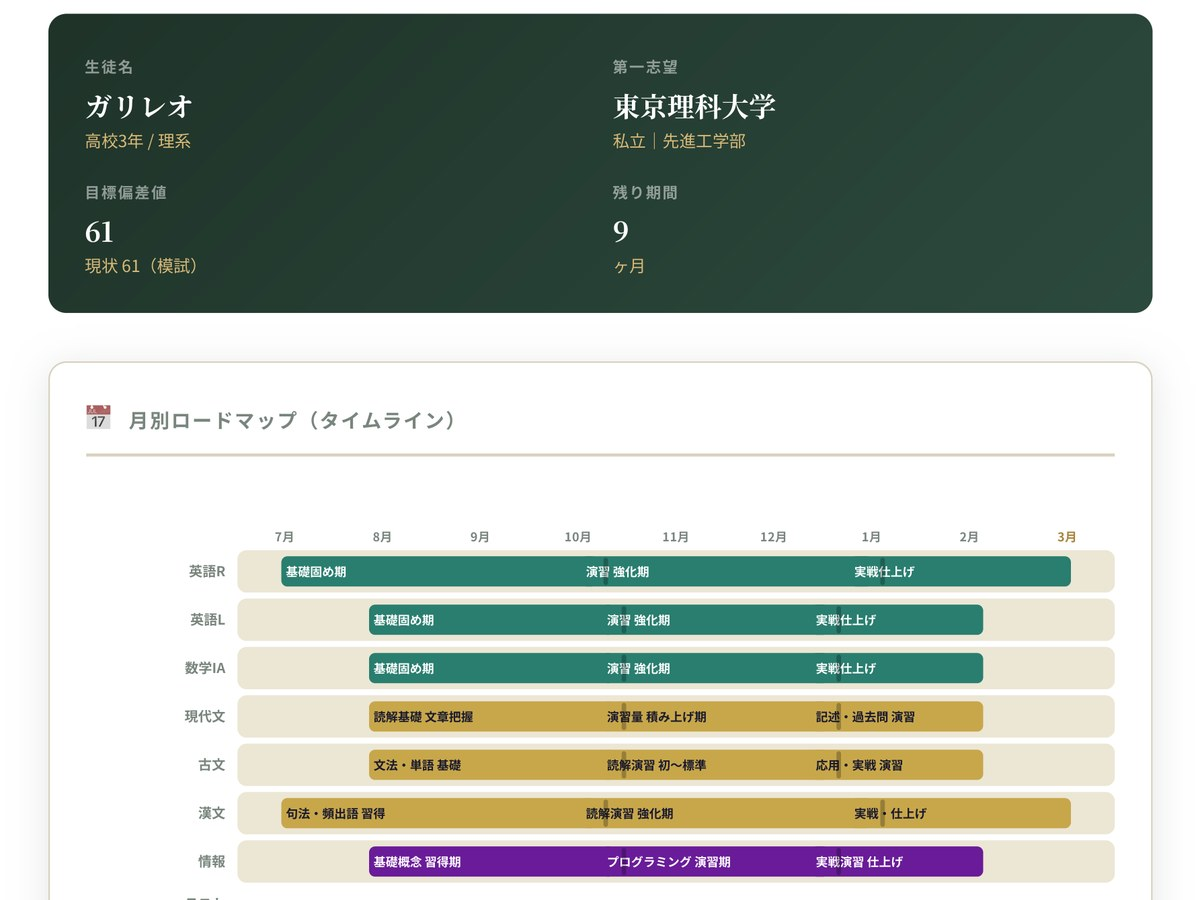
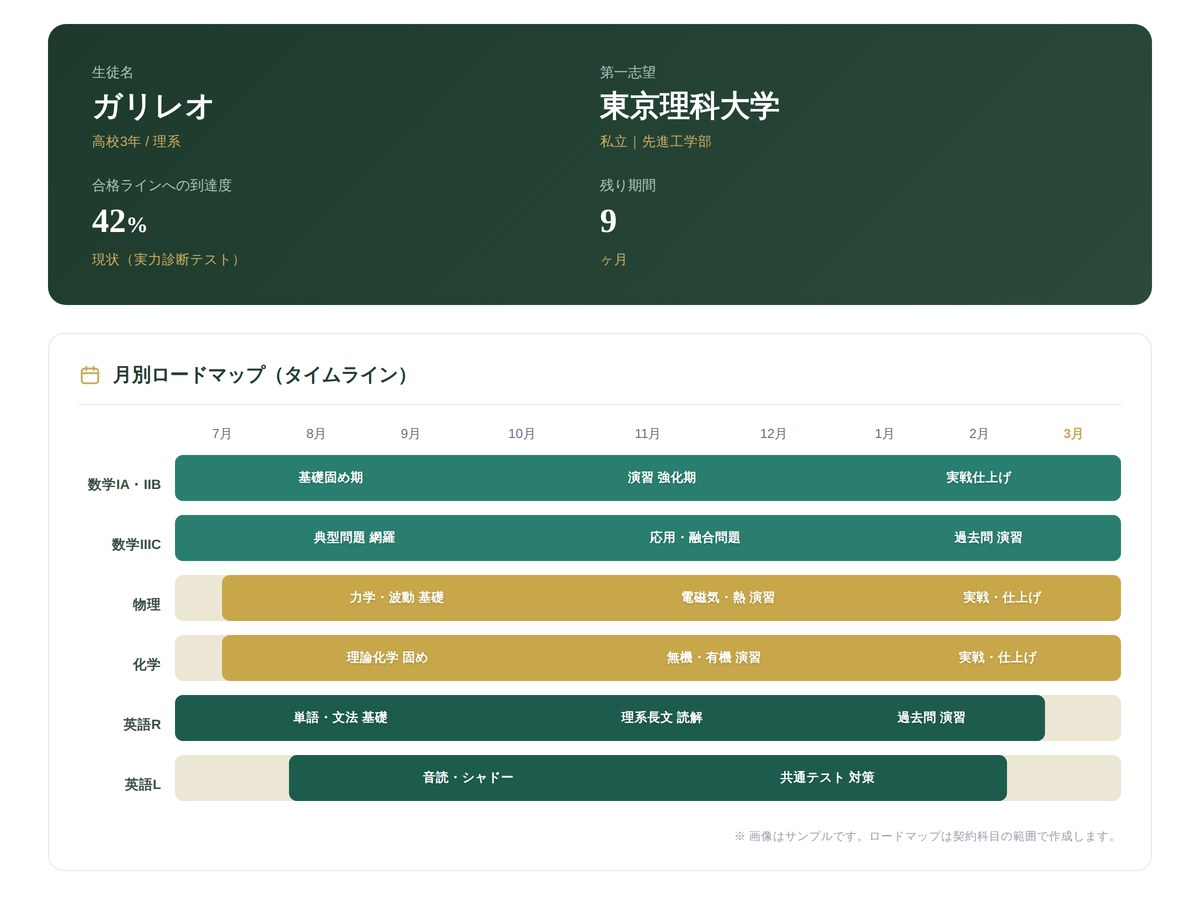
2026年改訂版の内容をサイト全体に反映
index.html
- ギャラリー「偏差値推移」を「合格ラインへの到達度」に差し替え（画像も作り直し）
- 合格ロードマップのサンプル画像を理系科目・到達度ベースに作り直し
- 学習ポイント・フィードバックのサンプル画像を理系科目版に作り直し
- 入塾の流れ STEP3/STEP4 を改訂版の運用に合わせて更新（確認テストの記述を削除）
- 毎日課題の丸付けに「考え方のコメントを添えて返却」を追記
- FAQ を更新・追加（保護者報告は2ヶ月に1回／科目数と追加オプション／
  実力診断テストは到達度で提示／毎日課題の丸付け方法）

pages/mainichi-kadai.html
- フィードバックの説明に「考え方のコメントを添えて返却」を追記

pages/lp-hybrid.html
- 旧料金の取り消し線表記「通常 ¥45,000 / 月」を削除
- 毎日課題の説明を偏差値から合格ラインへの到達度に変更

CLAUDE.md
- 2026年改訂版のサービス仕様・用語ルールを追記し、旧料金の記述を削除

Claude-Session: https://claude.ai/code/session_01FNeT1EFJMKpWd39kFEhtrb

diff --git a/index.html b/index.html
@@ -1261,7 +1261,7 @@ a.news-item{text-decoration:none;color:inherit;cursor:pointer}
     <div class="daily-steps">
       <div class="daily-step"><div class="daily-step-num">①</div><h4>講師が課題を提示</h4><p>生徒一人ひとりの学習状況や志望校に合わせて、<strong>どの参考書を・どの範囲まで・どのように</strong>進めるかを具体的に指示します。</p></div>
       <div class="daily-step"><div class="daily-step-num">②</div><h4>自宅で学習・ノート提出</h4><p>生徒は課題に取り組み、学習内容をノートにまとめます。ノートを写真で提出することで、単に「やりました」ではなく実際の学習内容を確認できます。</p></div>
-      <div class="daily-step"><div class="daily-step-num">③</div><h4>講師が丸付け・確認</h4><p>提出されたノートを講師が確認・丸付けします。理解が不十分な部分があれば、解き方のアドバイスや学習方法についてフィードバックを行います。</p></div>
+      <div class="daily-step"><div class="daily-step-num">③</div><h4>講師が丸付け・確認</h4><p>提出されたノートを講師が確認・丸付けします。不正解の箇所には「なぜそうなるのか」という<strong>考え方のコメント</strong>を添えて返却し、解き方や学習方法についてフィードバックを行います。</p></div>
       <div class="daily-step"><div class="daily-step-num">④</div><h4>翌日の課題を提示</h4><p>その日の学習状況を踏まえながら、講師が翌日の課題を提示します。このサイクルを毎日繰り返すことで、学習を着実に積み重ねていきます。</p></div>
     </div>
     <div class="daily-merits">
@@ -1348,7 +1348,7 @@ a.news-item{text-decoration:none;color:inherit;cursor:pointer}
     <div class="gallery-grid">
       <div class="gallery-item"><img src="img/gallery-3-dialogue.jpg" alt="講師との対話型授業" loading="lazy" width="1200" height="900"><span class="gallery-cap">講師との対話型授業</span></div>
       <div class="gallery-item"><img src="img/gallery-1-roadmap.jpg" alt="一人ひとりの合格ロードマップ" loading="lazy" width="1200" height="900"><span class="gallery-cap">合格ロードマップ</span></div>
-      <div class="gallery-item"><img src="img/gallery-2-suii.jpg" alt="偏差値推移のイメージ" loading="lazy" width="1200" height="900"><span class="gallery-cap">偏差値推移</span></div>
+      <div class="gallery-item"><img src="img/gallery-2-suii.jpg" alt="合格ラインへの到達度のイメージ" loading="lazy" width="1200" height="900"><span class="gallery-cap">合格ラインへの到達度</span></div>
       <div class="gallery-item"><img src="img/gallery-4-feedback.jpg" alt="学習ポイントのフィードバック" loading="lazy" width="1200" height="900"><span class="gallery-cap">学習ポイントのフィードバック</span></div>
       <div class="gallery-item"><img src="img/gallery-5-kadai.jpg" alt="毎日課題の配信" loading="lazy" width="1200" height="900"><span class="gallery-cap">毎日課題の配信</span></div>
       <div class="gallery-item"><img src="img/gallery-6-voices.jpg" alt="2025年度 合格者 保護者様の声（手書きアンケート）" loading="lazy" width="1200" height="900"></div>
@@ -1513,8 +1513,8 @@ a.news-item{text-decoration:none;color:inherit;cursor:pointer}
     <div class="flow-steps">
       <div class="flow-step"><div class="flow-num">STEP1</div><div class="flow-content"><h3>お問い合わせ・学習相談会</h3><p>フォームまたはLINEからお気軽にご連絡ください。現在の学力・志望校・学習の悩みなどをお伺いし、最適な学習プランをご提案します。</p></div></div>
       <div class="flow-step"><div class="flow-num">STEP2</div><div class="flow-content"><h3>無料体験授業（60分）</h3><p>実際の授業をご体験いただけます。数学・物理・化学・生物・英語からお好きな科目を選択可能です。実際の授業の進め方や講師との相性を、ぜひご確認ください。</p></div></div>
-      <div class="flow-step"><div class="flow-num">STEP3</div><div class="flow-content"><h3>学習プラン設計</h3><p>体験授業の結果をもとに、生徒一人ひとりに合わせた毎日課題ロードマップを作成。目標達成までの具体的なスケジュールをご提示します。</p></div></div>
-      <div class="flow-step"><div class="flow-num">STEP4</div><div class="flow-content"><h3>入塾・学習スタート</h3><p>入塾後は担当講師がマンツーマンでサポート。毎日課題と定期的な確認テストで、着実に学力を伸ばしていきます。</p></div></div>
+      <div class="flow-step"><div class="flow-num">STEP3</div><div class="flow-content"><h3>入塾面談・学習プラン設計</h3><p>体験授業の結果をもとに、担当科目を確定し、生徒一人ひとりに合わせた毎日課題ロードマップを作成。目標達成までの具体的なスケジュールをご提示します。</p></div></div>
+      <div class="flow-step"><div class="flow-num">STEP4</div><div class="flow-content"><h3>入塾・学習スタート</h3><p>入塾後は担当講師がマンツーマンでサポート。毎日課題と学習カルテによる進捗管理で、着実に学力を伸ばしていきます。</p></div></div>
     </div>
   </div>
 </section>
@@ -1533,7 +1533,10 @@ a.news-item{text-decoration:none;color:inherit;cursor:pointer}
       <div class="faq-item"><div class="faq-q" onclick="toggleFaq(this)">数学III・Cの指導に対応していますか？<span class="faq-icon">+</span></div><div class="faq-a"><p>はい、数学IIIC まで対応しています。東大・京大・東工大レベルの対策も可能です。</p></div></div>
       <div class="faq-item"><div class="faq-q" onclick="toggleFaq(this)">医学部受験に対応できますか？<span class="faq-icon">+</span></div><div class="faq-a"><p>はい、医学部受験に必要な全科目の対策が可能です。面接対策の相談も承ります。</p></div></div>
       <div class="faq-item"><div class="faq-q" onclick="toggleFaq(this)">毎日課題はどのくらいの量ですか？<span class="faq-icon">+</span></div><div class="faq-a"><p>生徒の学力や生活リズムに合わせて量を調整します。無理なく継続できることを重視しており、1日あたり1〜2時間程度を目安に設計しています。部活動との両立も可能です。</p></div></div>
-      <div class="faq-item"><div class="faq-q" onclick="toggleFaq(this)">保護者様へのご報告はありますか？<span class="faq-icon">+</span></div><div class="faq-a"><p>はい、定期的に保護者様との面談を実施し、学習の進捗状況や今後の方針を共有しています。また、日々の学習状況もLINEなどで随時ご報告可能です。</p></div></div>
+      <div class="faq-item"><div class="faq-q" onclick="toggleFaq(this)">保護者様へのご報告はありますか？<span class="faq-icon">+</span></div><div class="faq-a"><p>はい、2ヶ月に1回、保護者様と塾長の面談を実施しています。教務長・担任講師から普段のご様子を事前に共有した上で、塾長より学習の進捗状況と今後の方針をご報告します。日々の学習状況についても、LINEなどで随時ご報告可能です。</p></div></div>
+      <div class="faq-item"><div class="faq-q" onclick="toggleFaq(this)">何科目まで受講できますか？<span class="faq-icon">+</span></div><div class="faq-a"><p>コースごとに標準の科目数が決まっており、大学受験準備コース・合格戦略サポートは2科目まで、合格戦略プログラムは4科目までが標準です。いずれも科目追加オプションで最大2科目まで追加いただけます。担当科目は入塾面談時に確定し、合格ロードマップも契約科目の範囲で作成します。なお、科目の追加・変更・解除は翌月からの適用となり、月途中の変更はできません。</p></div></div>
+      <div class="faq-item"><div class="faq-q" onclick="toggleFaq(this)">実力診断テストの結果はどのように示されますか？<span class="faq-icon">+</span></div><div class="faq-a"><p>偏差値による相対評価ではなく、志望校の合格ラインに対してどこまで到達しているか（絶対評価）でフィードバックします。他人との比較ではなく「合格までにあと何が必要か」が明確になるため、次に取り組むべき課題がはっきりします。</p></div></div>
+      <div class="faq-item"><div class="faq-q" onclick="toggleFaq(this)">毎日課題の丸付けはどのように行われますか？<span class="faq-icon">+</span></div><div class="faq-a"><p>講師が提出物を確認し、不正解の箇所には「なぜそうなるのか」という考え方のコメントを添えて返却します。答え合わせだけで終わらせず、つまずいた原因まで振り返れるようにしています。</p></div></div>
       <div class="faq-item"><div class="faq-q" onclick="toggleFaq(this)">授業料の支払い方法はどうなっていますか？<span class="faq-icon">+</span></div><div class="faq-a"><p>銀行振込（一括・2回分割・3回分割）とクレジットカード毎月払いの4つの方法からお選びいただけます。また、特定商取引法に基づくクーリングオフ（契約日から8日以内・全額返金）にも対応しており、ご退塾時にはすでにご納入いただいた翌月以降の指導料金を返金いたします。</p></div></div>
     </div>
   </div>

diff --git a/pages/mainichi-kadai.html b/pages/mainichi-kadai.html
@@ -126,7 +126,7 @@
       <div class="daily-step visible"><div class="daily-step-num">1</div><h4>課題配信</h4><p>講師がその日の課題を配信。数学の計算演習、物理の公式確認、化学の反応式練習など、科目・レベルに合わせた最適な課題を毎日お届けします。</p></div>
       <div class="daily-step visible"><div class="daily-step-num">2</div><h4>課題実施</h4><p>生徒は決められた時間内に課題に取り組みます。制限時間を設けることで、入試本番を意識したスピード感を養います。</p></div>
       <div class="daily-step visible"><div class="daily-step-num">3</div><h4>提出・報告</h4><p>取り組んだ課題をLINEまたは専用フォームで提出。計算ノートの写真提出など、プロセスも含めて確認します。</p></div>
-      <div class="daily-step visible"><div class="daily-step-num">4</div><h4>フィードバック</h4><p>講師が内容を確認し、翌日までにフィードバック。理解度に応じて次の課題の難易度を調整し、常に最適な負荷をかけ続けます。</p></div>
+      <div class="daily-step visible"><div class="daily-step-num">4</div><h4>フィードバック</h4><p>講師が内容を確認し、翌日までにフィードバック。不正解の箇所には「なぜそうなるのか」という考え方のコメントを添えて返却します。理解度に応じて次の課題の難易度を調整し、常に最適な負荷をかけ続けます。</p></div>
     </div>
   </div>
 </section>

diff --git a/pages/lp-hybrid.html b/pages/lp-hybrid.html
@@ -593,7 +593,7 @@ strong{font-weight:700}
       <div class="mainichi__step">
         <div class="mainichi__step-num">STEP 04</div>
         <div class="mainichi__step-title">週次面談で再設計</div>
-        <div class="mainichi__step-body">進度・偏差値・志望校との距離を毎週見直し、翌週の課題を再設計。</div>
+        <div class="mainichi__step-body">進度・合格ラインへの到達度・志望校との距離を毎週見直し、翌週の課題を再設計。</div>
       </div>
     </div>
     <div class="mainichi__cta">
@@ -676,7 +676,6 @@ strong{font-weight:700}
       <div class="otameshi__body">
         <div class="otameshi__price-row">
           <div class="otameshi__price-label">体験料金（税込）</div>
-          <div class="otameshi__price-strike">通常 ¥45,000 / 月</div>
           <div>
             <span class="price-num">¥3,980</span><span class="price-unit">/ 7日間</span>
           </div>

diff --git a/CLAUDE.md b/CLAUDE.md
@@ -27,40 +27,73 @@
 - 思考トレーニング: 「合格思考」→「理系思考」
 - ボトムライン: 「旧帝大・早慶理工以上に合格するにはこの2つの力が不可能」
 
+## サービス仕様（2026年改訂版・サイト全体の基準）
+
+出典: 「ガリレオ 各プランに含まれるサービス一覧（2026年改訂版）」
+
+### 料金表示
+- **サイト上に月額料金・科目追加オプションの金額を表示しない**（無料相談・入塾面談でご案内）
+- 例外: お試しコース ¥3,980（申込導線・特定商取引法ページに記載が必要）
+
+### コース構成
+| | COURSE 01 大学受験準備コース | COURSE 02 合格戦略プログラム | COURSE 03 合格戦略サポート |
+|---|---|---|---|
+| 対象 | 中学生〜高校2年生 | 高校1年生〜高校3年生 | 併塾向け |
+| 標準科目数 | 2科目まで | 4科目まで | 2科目まで |
+| 科目追加 | 最大+2科目 | 最大+2科目 | 最大+2科目 |
+| オンライン個別指導（60分／回） | ○（月2回／週1回／週2回） | ○（月2回／週1回／週2回） | ✕ |
+| 毎日課題（週5回） | ○ | ○ | ○ |
+| 実力診断テスト（月末1回） | ✕ | ○ | ✕ |
+| LINE質問対応（随時） | ○ | ○ | ○ |
+| 合格ロードマップ作成 | ✕ | ○ | ○ |
+| 学習計画の作成・進捗管理 | ○ | ○ | ○ |
+| 学習カルテによる一元管理 | ○ | ○ | ○ |
+| 学習状況のご報告（2ヶ月に1回） | ○ | ○ | ○ |
+| 月1回の学習カウンセリング | ✕ | ✕ | ○ |
+
+### 用語・表現ルール
+- **「合格思考トレーニング」はサービス名として使用しない**（＝毎日課題に統合）。「合格思考 → 理系思考」は指導哲学の説明としてのみ使用可
+- **実力診断テストの結果は偏差値で示さない**。「志望校の合格ラインに対する到達度（絶対評価）」で表現する
+- 面談系のサービス項目は「学習状況のご報告」のみ掲載（保護者様と塾長・2ヶ月に1回）
+- 「三者面談」「確認テスト 週1回」「当月の偏差値推移の提示」は廃止項目のため掲載しない
+- 毎日課題は「丸付け時に不正解箇所へ考え方のコメントを添えて返却」と説明する
+- 担当科目は入塾面談時に確定。科目の追加・変更・解除は翌月から適用（月途中の変更不可）
+
 ## サブページ仕様
 
 ### 1. mainichi-kadai.html（毎日課題システム詳細）
 - プラトンの https://plato-humanities.com/mainichi-kadai を参考に構成
 - 毎日課題の4ステップサイクルの詳細説明
 - 理系科目での具体的な課題例（数学の計算ノート提出など）
-- 合格思考トレーニングの詳細（理系思考版）
+- 理系思考トレーニングの詳細（指導哲学としての説明・サービス名としては使わない）
 - メリット・効果の詳細説明
 - CTAセクション
 
 ### 2. daigaku-juken-junbi.html（大学受験準備コース詳細）
 - 対象: 中学生〜高校2年生
 - コース内容の詳細
-- 料金表（3プラン: 月2回¥40,000 / 週1回¥48,980 / 週2回¥67,380）
-- 含まれるサービス一覧
+- 標準2科目まで（オプションで最大4科目）
+- 含まれるサービス一覧（料金は掲載しない）
 - こんな人におすすめ
 - CTAセクション
 
 ### 3. goukaku-senryaku.html（合格戦略プログラム詳細）
 - 対象: 高校1年生〜高校3年生
 - 合格ロードマップの仕組み
-- 料金表（3プラン: 月2回¥45,000 / 週1回¥64,480 / 週2回¥83,380）
-- 実力診断テスト・偏差値推移の仕組み
+- 標準4科目まで（オプションで最大6科目）
+- 実力診断テスト（月末1回）の仕組み ※偏差値ではなく合格ラインへの到達度で提示
 - CTAセクション
 
 ### 4. goukaku-senryaku-support.html（合格戦略サポート詳細）
 - 対象: 併塾向け
-- 料金: 月額¥33,000
+- 標準2科目まで（オプションで最大4科目）／個別指導・実力診断テストなし
+- 月1回の学習カウンセリング
 - 他塾との併用メリット
 - CTAセクション
 
 ### 5. voices.html（合格者の声 一覧）
 - 全合格体験談の詳細版
-- 偏差値推移グラフ付き
+- 合格ラインへの到達度の推移
 - 大学別フィルタリング
 
 ### 6. news.html（お知らせ一覧）
